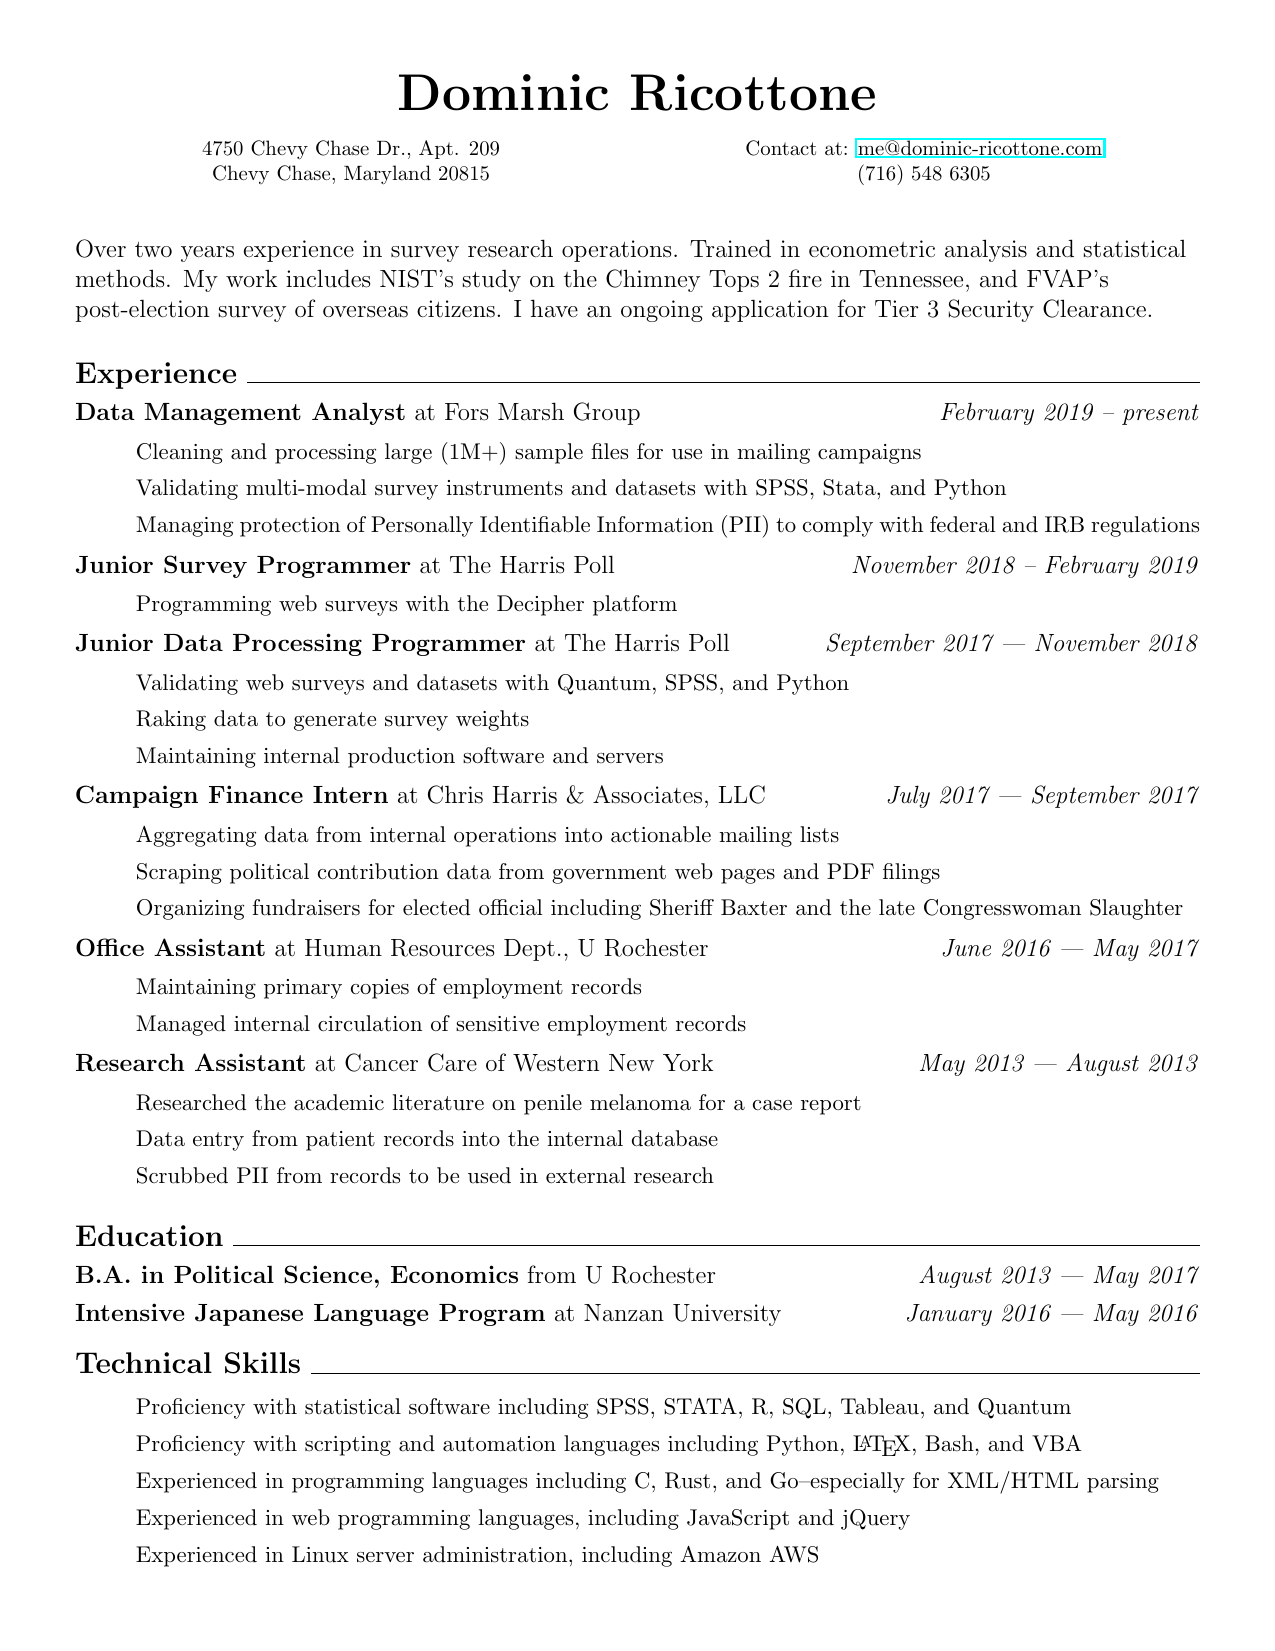
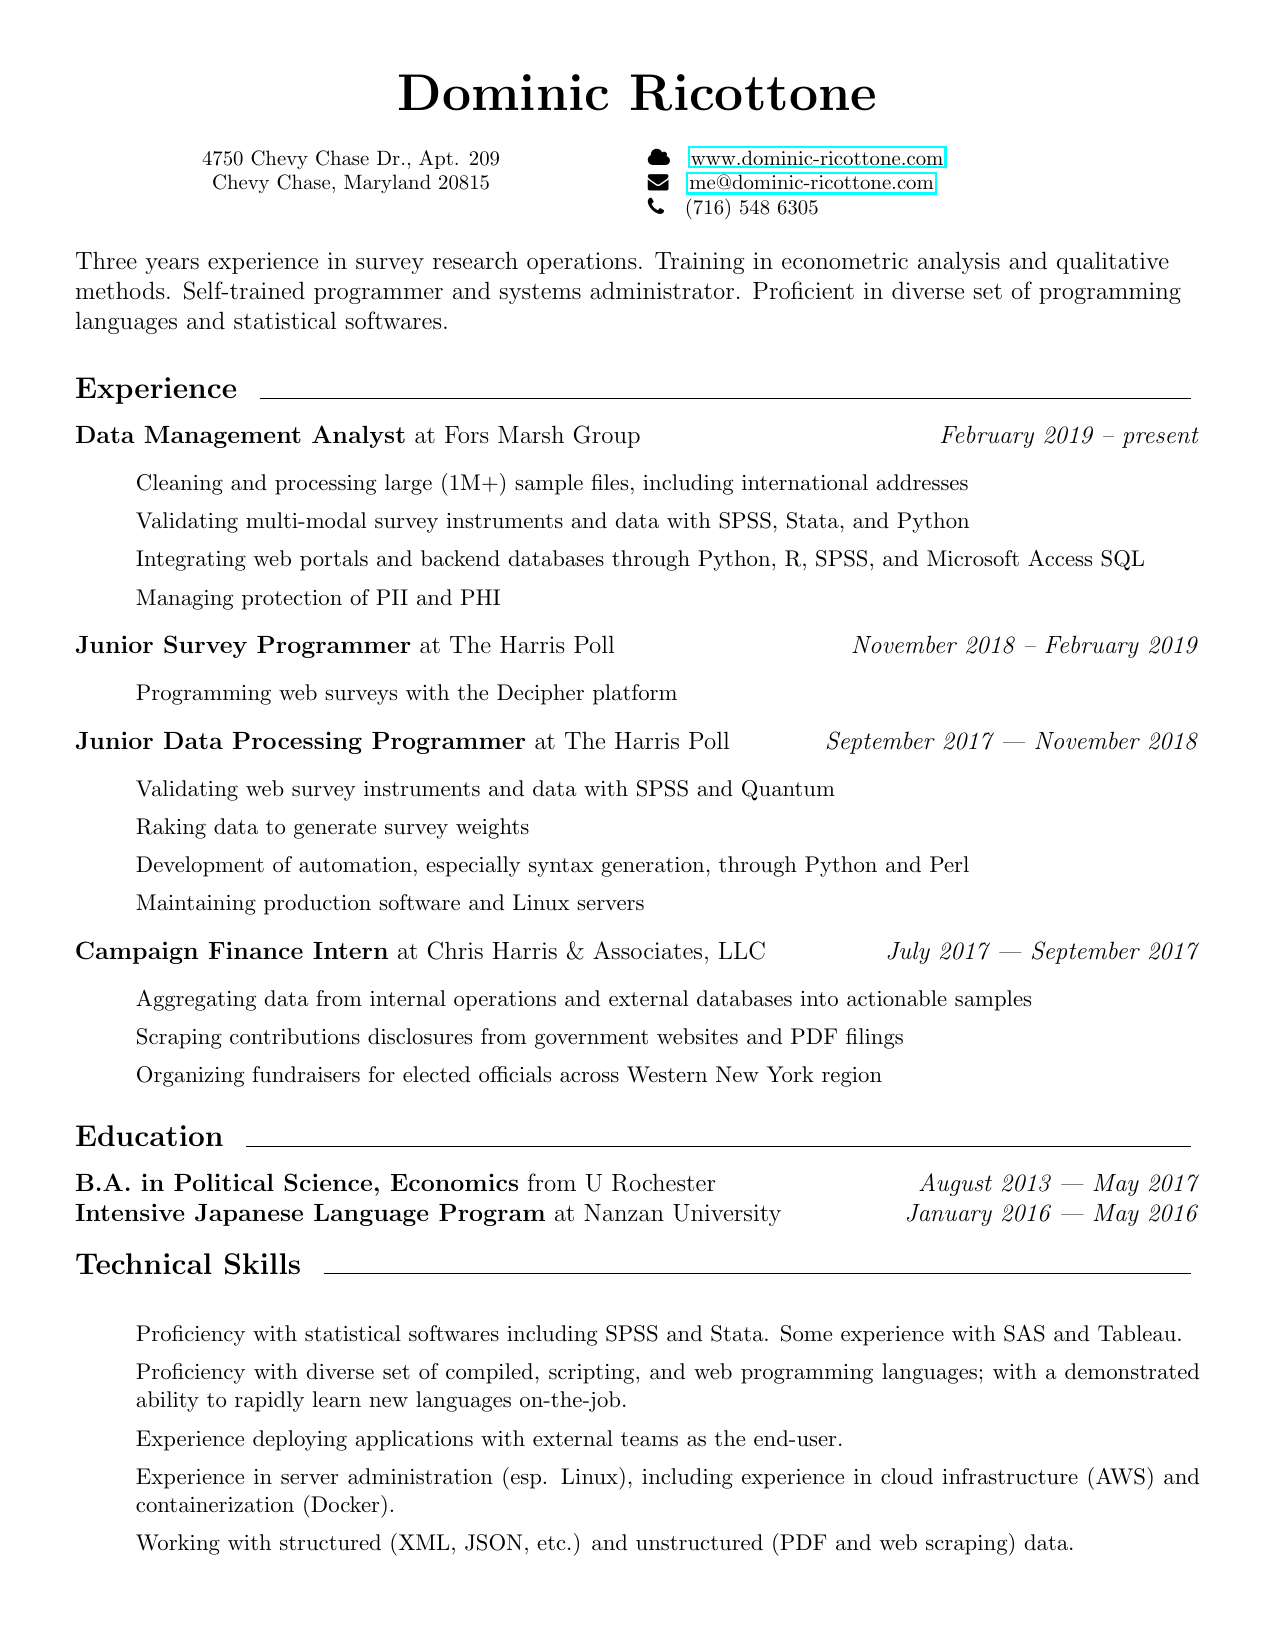
Rewrite

diff --git a/document.tex b/document.tex
@@ -1,113 +1,126 @@
 \documentclass[12pt]{article}
-\usepackage[letterpaper, total={7.5in,10in}, centering]{geometry}
-\pagenumbering{gobble} % suppresses pagination
-\setlength{\parindent}{0pt} % suppressed paragraph indent
-\usepackage{multicol} % for contact info
-\usepackage{enumitem} % for indented descriptions
-\usepackage{setspace} % for doublespacing
-\usepackage{hyperref}
-\urlstyle{same} % hyperref default is to show URLs in mono font
 
+% margins
+\usepackage[letterpaper, total={7.5in,10in}, centering]{geometry}
+
+% embedded hyperlnks
+\usepackage{hyperref}
+\urlstyle{same}
+
+% double-spaced lines
+\usepackage{setspace}
+
+% suppress pagination
+\pagenumbering{gobble}
+
+% suppress paragraph indentation
+\setlength{\parindent}{0pt}
+
+% columns
+\usepackage{multicol}
+
+% custom environments
+\newenvironment{name}{
+  \begin{center} \huge \bfseries
+}{
+  \end{center} \normalsize
+}
+
+\usepackage{fontawesome}
+\newenvironment{contact}{
+  \begin{multicols}{2} \footnotesize
+}{
+  \end{multicols}
+}
+
+\newenvironment{division}{
+  \vspace{.1in} \large \bfseries
+}{
+  \hrulefill \normalsize \vspace{.1in}
+}
+
+\usepackage{enumitem}
 \newenvironment{details}{
-\begin{itemize}[label={}]
-	\small \setlength{\itemsep}{0pt}
-}{\end{itemize}}
+  \begin{itemize}[label={}] \small \setlength{\itemsep}{0pt}
+}{
+  \end{itemize} \normalsize
+}
 
 \begin{document}
 
-\centering \Huge
-\textbf{Dominic Ricottone}
+\begin{name}
+  Dominic Ricottone
+\end{name}
 
-\footnotesize
-\begin{multicols}{2}
-4750 Chevy Chase Dr., Apt. 209 \\
-Chevy Chase, Maryland 20815 \\
-Contact at: \href{mailto:me@dominic-ricottone.com}{me@dominic-ricottone.com} \\
-(716) 548 6305
-\end{multicols}
+\begin{contact}
+  \begin{center}
+  4750 Chevy Chase Dr., Apt. 209 \\
+  Chevy Chase, Maryland 20815 \\
+  \end{center}
+  \columnbreak
+  \faCloud \quad    \href{https://www.dominic-ricottone.com}{www.dominic-ricottone.com} \\
+  \faEnvelope \quad \href{mailto:me@dominic-ricottone.com}{me@dominic-ricottone.com} \\
+  \faPhone \quad    (716) 548 6305
+\end{contact}
 
-\vspace{.1in}
-\normalsize
 \begin{flushleft}
-Over two years experience in survey research operations. Trained in econometric 
-analysis and statistical methods. My work includes NIST's study on the Chimney 
-Tops 2 fire in Tennessee, and FVAP's post-election survey of overseas citizens. 
-I have an ongoing application for Tier 3 Security Clearance.
+  Three years experience in survey research operations.
+  Training in econometric analysis and qualitative methods.
+  Self-trained programmer and systems administrator.
+  Proficient in diverse set of programming languages and statistical softwares.
 \end{flushleft}
 
-\vspace{.1in}
-\large
-\textbf{Experience} \hrulefill
-\vspace{.05in}
+\begin{division}
+  Experience
+\end{division}
 
-\normalsize
 \textbf{Data Management Analyst} at Fors Marsh Group \hfill \textit{February 2019 -- present}
 \begin{details}
- 	\item Cleaning and processing large (1M+) sample files for use in mailing campaigns
-	\item Validating multi-modal survey instruments and datasets with SPSS, Stata, and Python
-	\item Managing protection of Personally Identifiable Information (PII) to comply with federal and IRB regulations
+  \item Cleaning and processing large (1M+) sample files, including international addresses
+  \item Validating multi-modal survey instruments and data with SPSS, Stata, and Python
+  \item Integrating web portals and backend databases through Python, R, SPSS, and Microsoft Access SQL
+  \item Managing protection of PII and PHI
 \end{details}
 
-\normalsize
 \textbf{Junior Survey Programmer} at The Harris Poll \hfill \textit{November 2018 -- February 2019}
 \begin{details}
- 	\item Programming web surveys with the Decipher platform
+  \item Programming web surveys with the Decipher platform
 \end{details}
 
-\normalsize
 \textbf{Junior Data Processing Programmer} at The Harris Poll \hfill \textit{September 2017 --- November 2018}
 \begin{details}
-	\item Validating web surveys and datasets with Quantum, SPSS, and Python
- 	\item Raking data to generate survey weights
-	\item Maintaining internal production software and servers
+  \item Validating web survey instruments and data with SPSS and Quantum
+  \item Raking data to generate survey weights
+  \item Development of automation, especially syntax generation, through Python and Perl
+  \item Maintaining production software and Linux servers
 \end{details}
 
-\normalsize
 \textbf{Campaign Finance Intern} at Chris Harris \& Associates, LLC \hfill \textit{July 2017 --- September 2017}
 \begin{details}
-	\item Aggregating data from internal operations into actionable mailing lists
-	\item Scraping political contribution data from government web pages and PDF filings
-	\item Organizing fundraisers for elected official including Sheriff Baxter and the late Congresswoman Slaughter
+  \item Aggregating data from internal operations and external databases into actionable samples
+  \item Scraping contributions disclosures from government websites and PDF filings
+  \item Organizing fundraisers for elected officials across Western New York region
 \end{details}
 
-\normalsize
-\textbf{Office Assistant} at Human Resources Dept., U Rochester  \hfill \textit{June 2016 --- May 2017}
-\begin{details}
-	\item Maintaining primary copies of employment records
-	\item Managed internal circulation of sensitive employment records
-\end{details}
+\begin{division}
+  Education
+\end{division}
 
-\normalsize
-\textbf{Research Assistant} at Cancer Care of Western New York  \hfill \textit{May 2013 --- August 2013}
-\begin{details}
-	\item Researched the academic literature on penile melanoma for a case report
-	\item Data entry from patient records into the internal database
-	\item Scrubbed PII from records to be used in external research
-\end{details}
-
-\vspace{.1in}
-\large
-\textbf{Education} \hrulefill
-
-\vspace{.05in}
-\normalsize
 \textbf{B.A. in Political Science, Economics} from U Rochester \hfill \textit{August 2013 --- May 2017}
 
-\vspace{.05in}
-\normalsize
 \textbf{Intensive Japanese Language Program} at Nanzan University \hfill \textit{January 2016 --- May 2016}
 
-\vspace{.1in}
-\large
-\textbf{Technical Skills} \hrulefill
+\vspace{.05in} %the enumitem adds some vertical spacing for other divisions
+\begin{division}
+  Technical Skills
+\end{division}
 
-\normalsize
 \begin{details}
-	\item Proficiency with statistical software including SPSS, STATA, R, SQL, Tableau, and Quantum
-	\item Proficiency with scripting and automation languages including Python, \LaTeX, Bash, and VBA
-	\item Experienced in programming languages including C, Rust, and Go--especially for XML/HTML parsing
-	\item Experienced in web programming languages, including JavaScript and jQuery
-	\item Experienced in Linux server administration, including Amazon AWS
+  \item Proficiency with statistical softwares including SPSS and Stata. Some experience with SAS and Tableau.
+  \item Proficiency with diverse set of compiled, scripting, and web programming languages; with a demonstrated ability to rapidly learn new languages on-the-job.
+  \item Experience deploying applications with external teams as the end-user.
+  \item Experience in server administration (esp. Linux), including experience in cloud infrastructure (AWS) and containerization (Docker).
+  \item Working with structured (XML, JSON, etc.) and unstructured (PDF and web scraping) data.
 \end{details}
 
 \end{document}
